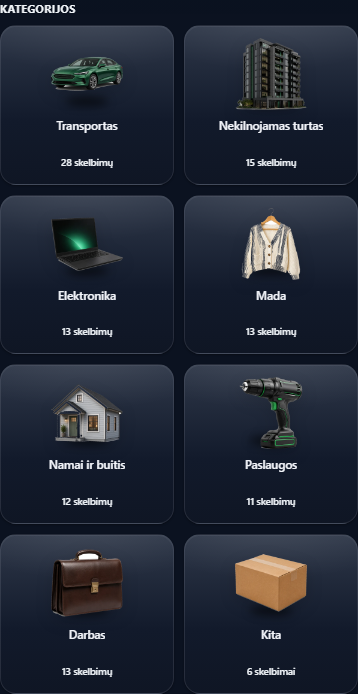
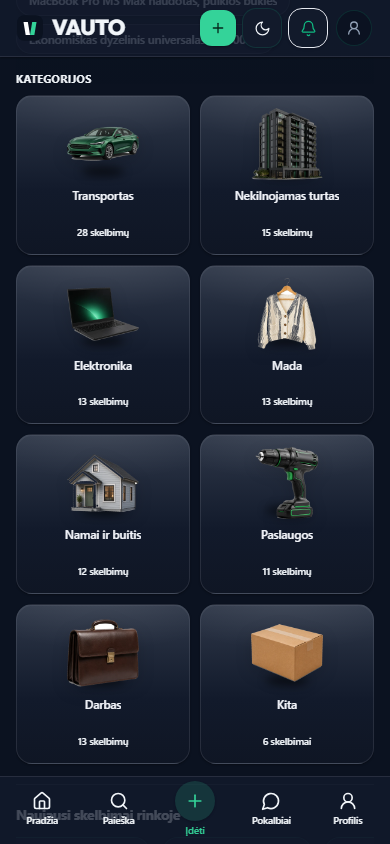
fix(ui): full-viewport 390x844 mobile category evidence — grid and bottom nav in one frame

diff --git a/tests/e2e/f7-category-cards.spec.ts b/tests/e2e/f7-category-cards.spec.ts
@@ -535,17 +535,24 @@ test.describe("F7 — kortelių vientisumas (mobile)", () => {
       const tiles = Array.from(document.querySelectorAll("[data-category-card]"));
       const last = tiles[tiles.length - 1] as HTMLElement;
       const lastBox = last.getBoundingClientRect();
-      const newNavTop = nav.getBoundingClientRect().top;
+      const g2 = grid.getBoundingClientRect();
+      const n2 = nav.getBoundingClientRect();
       return {
-        clearance: newNavTop - lastBox.bottom,
-        navVisible: newNavTop < window.innerHeight,
+        gridTop: g2.top,
+        clearance: n2.top - lastBox.bottom,
+        navVisible: n2.top < window.innerHeight,
+        navFullyOnScreen: n2.bottom <= window.innerHeight + 1,
         scrollY: window.scrollY,
       };
     });
+    // One-frame evidence contract: the WHOLE grid (top ≥ 0) fits above the
+    // fixed nav, and the nav itself is fully on screen — no overlap.
+    expect(clearance.gridTop, "grid top stays on screen").toBeGreaterThanOrEqual(-1);
     expect(
       clearance.clearance,
       "last category row must be fully above the bottom nav after a real scroll"
     ).toBeGreaterThanOrEqual(-1);
     expect(clearance.navVisible, "bottom nav itself stays visible").toBe(true);
+    expect(clearance.navFullyOnScreen, "bottom nav is fully on screen").toBe(true);
   });
 });
